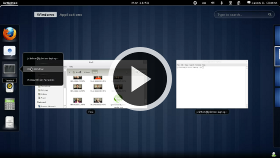
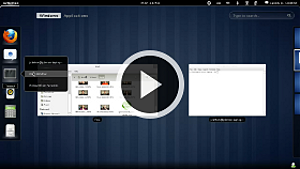
better alignment of video thumbnails.
- Didn't have the source of the thumbnail overlays so it's simply scaled up and unsharp masked

diff --git a/index.html b/index.html
@@ -39,7 +39,7 @@
         <h1>Introducing the next generation GNOME desktop</h1>
       </div>
 
-    <p>For GNOME 3, the GNOME Project has started from scratch and created a completely new, modern desktop designed for today's users and technologies. Here are some of the things that you can expect from the new GNOME:</p>
+    <p></p>
 
   </div>
 </div>
@@ -47,14 +47,16 @@
 <div class="clear"></div>
 
 <div class="container_12 videos">
-<div class="grid_4"><a href="video-appsearch.html" rel="fancyvid"><img src="img/video-appsearch.png"/></a><br/>Access apps faster</div>
-<div class="grid_4"><a href="video-windows.html" rel="fancyvid"><img src="img/video-windows.png"/></a><br/>Easier window managment</div>
-<div class="grid_4 omega"><a href="video-workspaces.html" rel="fancyvid"><img src="img/video-workspaces.png"/></a><br/>Create workspaces</div>
+<div class="grid_4"><p>For GNOME 3, the GNOME Project has started from scratch and created a completely new, modern desktop designed for today's users and technologies. Here are some of the things that you can expect from the new GNOME:</p></div>
+<div class="grid_4"><a href="video-appsearch.html" rel="fancyvid"><img src="img/video-appsearch.png"/></a><label>Access apps faster</label></div>
+<div class="grid_4"><a href="video-windows.html" rel="fancyvid"><img src="img/video-windows.png"/></a><label>Easier window managment</label></div>
+
 </div>
 
 <div class="container_12 videos">
-<div class="grid_6"><a href="video-hardware.html" rel="fancyvid"><img src="img/video-hardware.png"/></a><br/>Deeper hardware integration</div>
-<div class="grid_6 omega"><a href="video-appwindows.html" rel="fancyvid"><img src="img/video-appwindows.png"/></a><br/>App-based window management</div>
+<div class="grid_4"><a href="video-workspaces.html" rel="fancyvid"><img src="img/video-workspaces.png"/></a><label>Create workspaces</label></div>
+<div class="grid_4"><a href="video-hardware.html" rel="fancyvid"><img src="img/video-hardware.png"/></a><label>Deeper hardware integration</label></div>
+<div class="grid_4"><a href="video-appwindows.html" rel="fancyvid"><img src="img/video-appwindows.png"/></a><label>App-based window management</label></div>
 </div>
 
 <div class="clear"></div>

diff --git a/css/gnome3.css b/css/gnome3.css
@@ -142,6 +142,14 @@ ul.navigation li a {
 .videos {
   text-align: center;
 }
+  .videos p {
+    text-align: left;
+    margin: 0 2em 0 0;
+    }
+    .videos label {
+      display: block;
+      margin-bottom: 2em;
+    }
 
 .features {
   margin-top: 50px;
